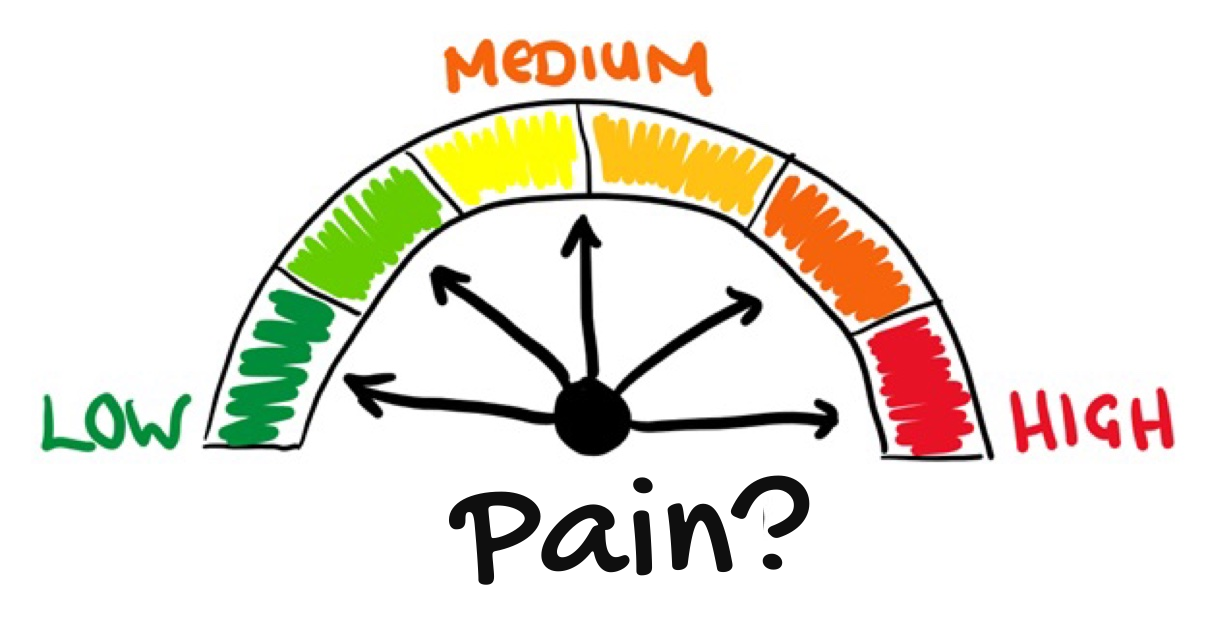
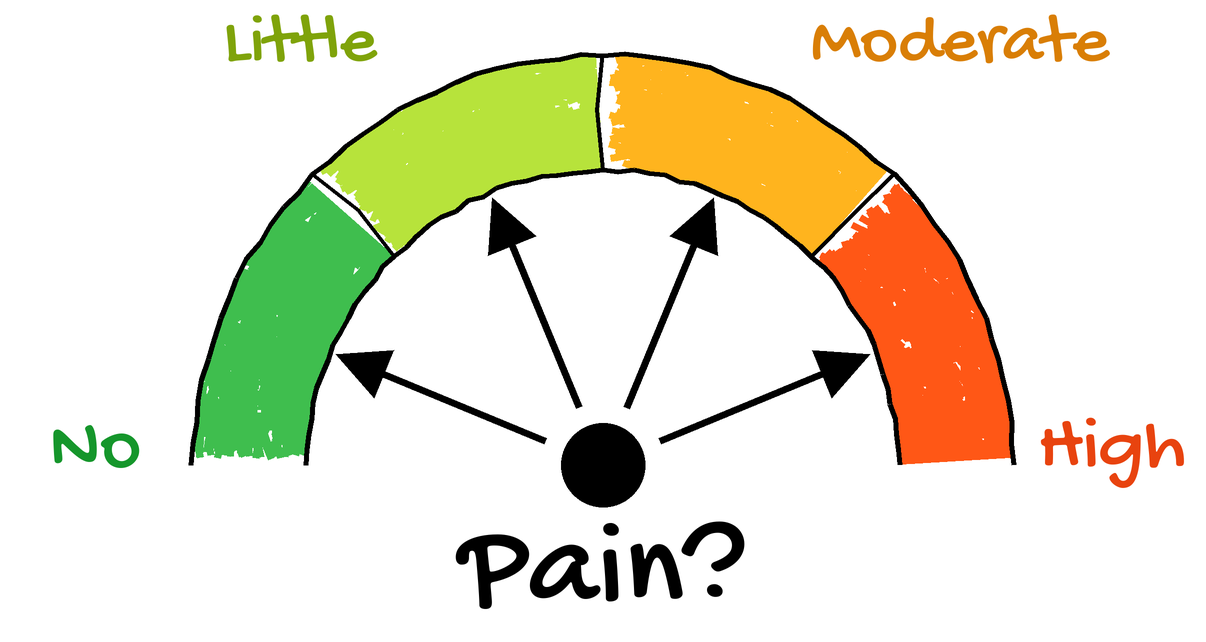
Homepage gauge: four levels No/Little/Moderate/High, green to orange-red

Changed region(s): [[0.0307, 0.0623, 0.9818, 0.9657], [0.675, 0.0312, 0.9204, 0.0935], [0.1841, 0.0, 0.3375, 0.0935]]

diff --git a/_pages/home.md b/_pages/home.md
@@ -16,7 +16,7 @@ Welcome to the Spatial Health and Pain Equity (SHAPE) lab led by Dr. Feinuo Sun 
 
 </div>
 <div style="flex: 0 1 330px; min-width: 0; text-align: center;">
-<img src="{{ '/assets/images/pain_gauge.png' | relative_url }}" alt="Hand-drawn gauge asking Pain? from low to high" style="max-width: 100%; height: auto; margin-bottom: 0.4rem;" />
+<img src="{{ '/assets/images/pain_gauge.png' | relative_url }}" alt="Hand-drawn gauge asking Pain? with four levels: No, Little, Moderate, High" style="max-width: 100%; height: auto; margin-bottom: 0.4rem;" />
 <img src="{{ '/assets/images/home_illustration.png' | relative_url }}" alt="Illustration of neighborhoods, community, and collaboration" style="max-width: 100%; height: auto;" />
 </div>
 </div>
